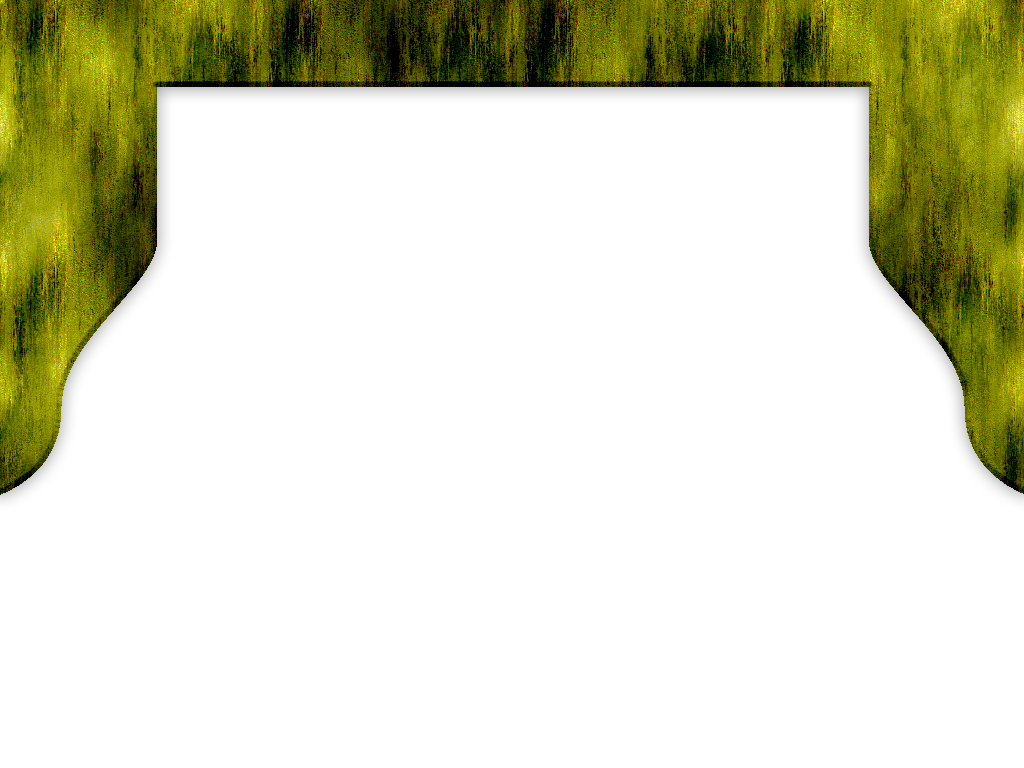
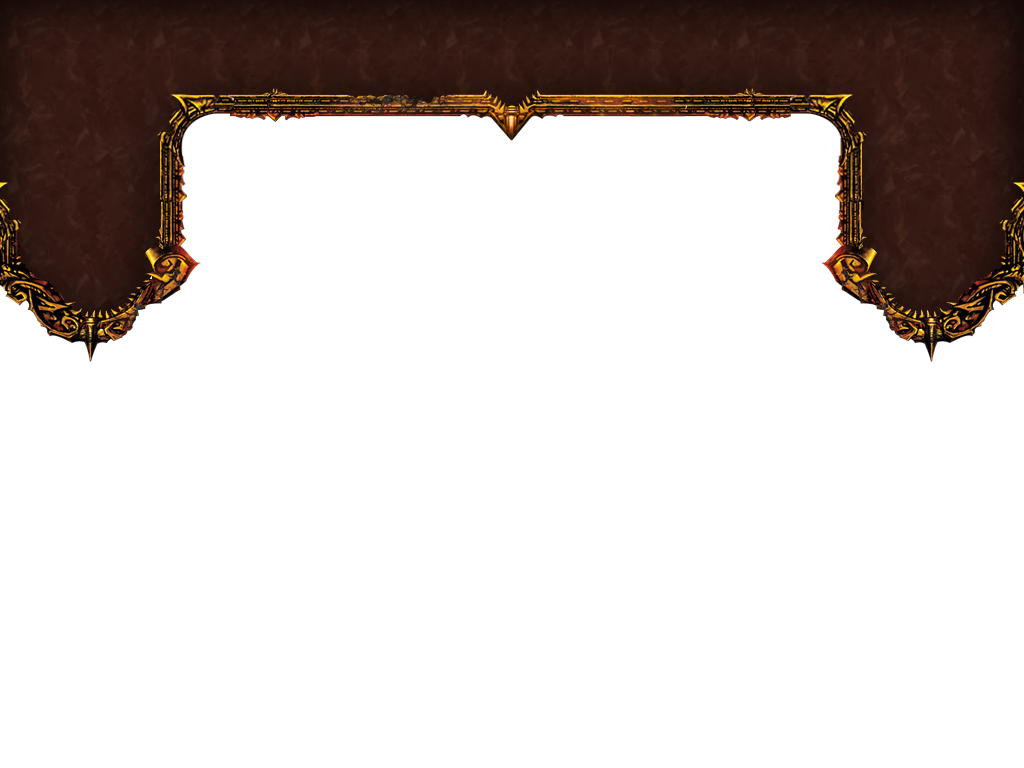
- new image for frame added - new image for alert added

Changed region(s): [[0.0, 0.0, 1.0, 0.6562]]

diff --git a/ClashOfHeroes/GCTurnBasedMatchHelper.m b/ClashOfHeroes/GCTurnBasedMatchHelper.m
@@ -33,11 +33,14 @@ static GCTurnBasedMatchHelper *sharedHelper = nil;
 
 - (id)init
 {
-    if ((self = [super init])) {
+    if ((self = [super init])) 
+    {
         gameCenterAvailable = [self isGameCenterAvailable];
-        if (gameCenterAvailable) {
-            NSNotificationCenter *nc = 
-            [NSNotificationCenter defaultCenter];
+        
+        if (gameCenterAvailable) 
+        {
+            NSNotificationCenter *nc = [NSNotificationCenter defaultCenter];
+            
             [nc addObserver:self 
                    selector:@selector(authenticationChanged) 
                        name:GKPlayerAuthenticationDidChangeNotificationName 
@@ -225,6 +228,7 @@ static GCTurnBasedMatchHelper *sharedHelper = nil;
     for (Player *player in self.currentPlayers)
     {
         NSDictionary *playerData = [matchData objectForKey:player.gameCenterInfo.playerID];
+        
         if (playerData)
         {
             NSDictionary *heroDict = [playerData objectForKey:@"hero"];
@@ -234,8 +238,10 @@ static GCTurnBasedMatchHelper *sharedHelper = nil;
             NSDictionary *priestDict = [playerData objectForKey:@"Priest"];
             NSDictionary *shifterDict = [playerData objectForKey:@"Shapeshifter"];
             
-            if (heroDict) {
+            if (heroDict) 
+            {
                 Hero *heroUnit = [Hero new];
+                
                 [heroUnit setHeroName:[heroDict valueForKey:@"heroName"]];
                 [heroUnit setCurrentHealth:[[heroDict valueForKey:@"health"] integerValue]];
                 [heroUnit setAbilityOne:[heroDict valueForKey:@"abilityOne"]];
@@ -251,7 +257,7 @@ static GCTurnBasedMatchHelper *sharedHelper = nil;
             if (warriorDict)
             {
                 UnitData *warriorUnit = [[UnitData alloc] initWithType:@"warrior"
-                                                            tag:[[warriorDict valueForKey:@"tag"] integerValue]
+                                                                   tag:[[warriorDict valueForKey:@"tag"] integerValue]
                                                            andLocation:[[warriorDict valueForKey:@"location"] CGPointValue]];
                 [unitArray addObject:warriorUnit];
             }
@@ -259,8 +265,8 @@ static GCTurnBasedMatchHelper *sharedHelper = nil;
             if (mageDict)
             {
                 UnitData *mageUnit = [[UnitData alloc] initWithType:@"mage"
-                                                                   tag:[[mageDict valueForKey:@"tag"] integerValue]
-                                                           andLocation:[[mageDict valueForKey:@"location"] CGPointValue]];
+                                                                tag:[[mageDict valueForKey:@"tag"] integerValue]
+                                                        andLocation:[[mageDict valueForKey:@"location"] CGPointValue]];
                 
                 [unitArray addObject:mageUnit];
             }
@@ -268,8 +274,8 @@ static GCTurnBasedMatchHelper *sharedHelper = nil;
             if (rangerDict)
             {
                 UnitData *rangerUnit = [[UnitData alloc] initWithType:@"ranger"
-                                                                   tag:[[rangerDict valueForKey:@"tag"] integerValue]
-                                                           andLocation:[[rangerDict valueForKey:@"location"] CGPointValue]];
+                                                                  tag:[[rangerDict valueForKey:@"tag"] integerValue]
+                                                          andLocation:[[rangerDict valueForKey:@"location"] CGPointValue]];
                 
                 [unitArray addObject:rangerUnit];
             }
@@ -277,8 +283,8 @@ static GCTurnBasedMatchHelper *sharedHelper = nil;
             if (priestDict)
             {
                 UnitData *priestUnit = [[UnitData alloc] initWithType:@"priest"
-                                                                   tag:[[priestDict valueForKey:@"tag"] integerValue]
-                                                           andLocation:[[priestDict valueForKey:@"location"] CGPointValue]];
+                                                                  tag:[[priestDict valueForKey:@"tag"] integerValue]
+                                                          andLocation:[[priestDict valueForKey:@"location"] CGPointValue]];
                 
                 [unitArray addObject:priestUnit];
             }

diff --git a/ClashOfHeroes/GameViewController.m b/ClashOfHeroes/GameViewController.m
@@ -112,7 +112,7 @@
         }
         else if (alert.tag == 2)
         {
-            [self.gameLayer.currentPhase endPhaseOnLayer:self.gameLayer];
+            [self.gameLayer.currentPhase endPhase];
         }
         else if (alert.tag == 3)
             [self.navigationController popViewControllerAnimated:YES];
